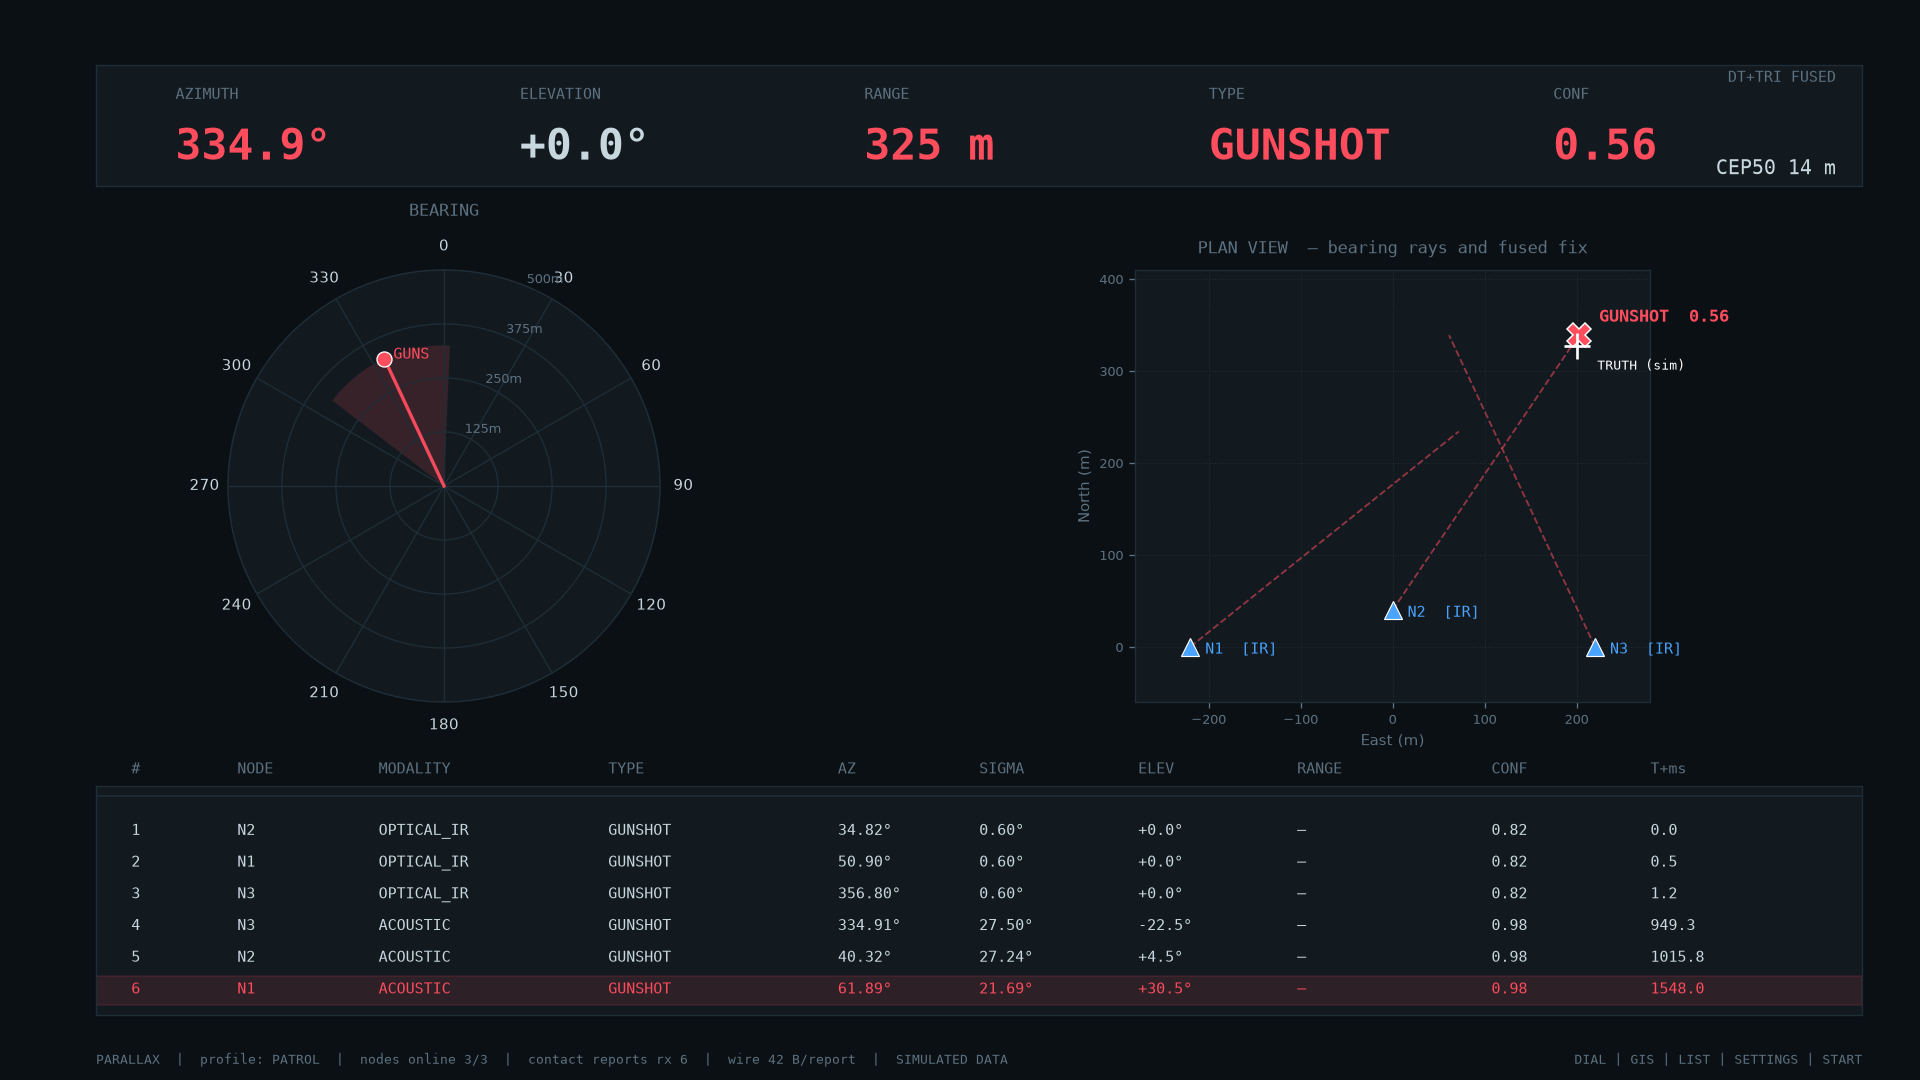
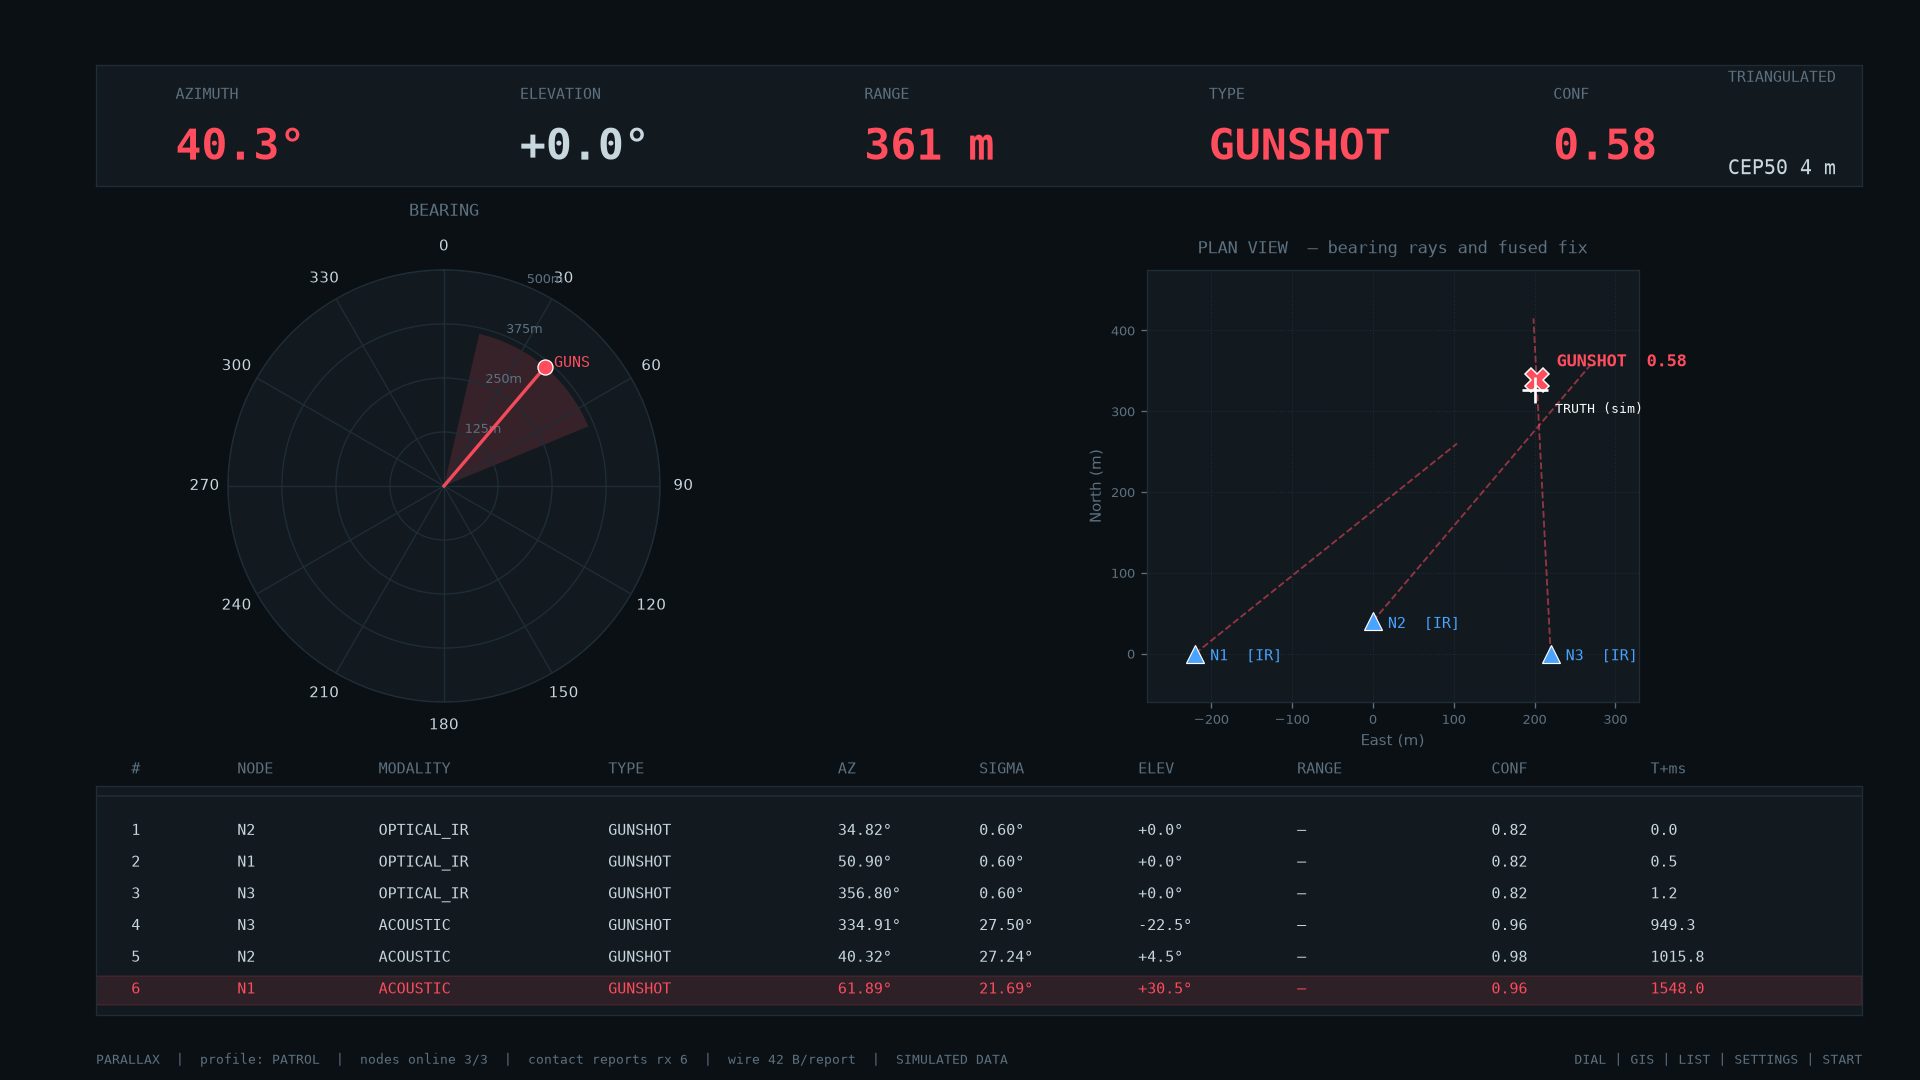
Fix bugs surfaced by code review
- Classifier train/inference window mismatch: training used 250ms windows,
  the edge pipeline classifies 25ms windows. Retrained GUNSHOT class using
  the same physical renderer + windowing sim/edge_node.py actually feeds
  the model in production, closing a real domain gap that was flipping
  GUNSHOT to NUISANCE on demo audio.
- geometry.cep50_from_cov(): fixed a dimensional bug -- it took the
  geometric mean of covariance eigenvalues (variance, m^2) instead of their
  square roots (std dev, m), overstating CEP50 by roughly the sigma scale
  (13.6m -> 4.0m on the baseline demo scenario).
- fusion.py: fixed error-ellipse orientation for flash/acoustic-only fixes,
  which always pointed along the bearing even when cross-track error (the
  usual dominant term at range) should have set the major axis instead.
- fusion.py: same-node reports now require bearing agreement regardless of
  modality match, so two genuinely distinct events at one node (rapid
  double-tap, two shooters) can no longer silently merge into one track.
- fusion.py: NaN/out-of-range confidence no longer silently propagates
  past np.clip (which passes NaN through unchanged) into track.confidence.
- sim/edge_node.py: a degenerate DoA solve at very low SNR raised an
  uncaught ValueError that crashed the demo; now treated as a missed
  detection, like the existing no-onset case.
- doa.py: a flat/zero-energy correlation (dead channel, empty window)
[…]

diff --git a/sim/train_classifier.py b/sim/train_classifier.py
@@ -45,10 +45,17 @@ from scipy import signal
 
 from parallax.classifier import TransientClassifier, save_metrics
 from parallax.contact import ThreatClass
-from parallax.features import extract
+from parallax.features import extract, detect_onset
+from sim.edge_node import PRE_TRIGGER_S, WINDOW_S
 
 FS = 48_000.0
-DURATION_S = 0.25
+# MUST match the window the live edge pipeline actually classifies
+# (sim/edge_node.py's PRE_TRIGGER_S + WINDOW_S). Several features are
+# duration-sensitive -- e.g. modulation_20_200hz needs a full cycle to
+# resolve, decay/duration features are scaled by the window length -- so
+# training on a longer window than inference sees is a real train/inference
+# skew, not a cosmetic mismatch.
+DURATION_S = PRE_TRIGGER_S + WINDOW_S
 
 
 def _noise_bed(n: int, rng: np.random.Generator, colour: float = 0.7) -> np.ndarray:
@@ -69,14 +76,51 @@ def _reverb(x: np.ndarray, rng: np.random.Generator, rt60_s: float) -> np.ndarra
 
 
 def gunshot(rng):
-    n = int(DURATION_S * FS)
-    t = np.arange(n) / FS
-    tau = rng.uniform(0.0007, 0.0018)  # calibre / charge dependent
-    x = (1 - t / tau) * np.exp(-t / tau)
-    sos = signal.butter(2, [rng.uniform(300, 600) / (FS / 2), rng.uniform(1800, 3200) / (FS / 2)],
-                        btype="band", output="sos")
-    x = x + 0.15 * signal.sosfilt(sos, rng.standard_normal(n)) * np.exp(-t / (4 * tau))
-    return _reverb(x, rng, rng.uniform(0.15, 0.9))
+    """Physically-simulated, NOT a separate parametric model.
+
+    Earlier versions of this file used a standalone Friedlander-pulse
+    generator with its own hand-tuned tau/reverb/ringing parameters --
+    independent of, and numerically different from, the physical scenario
+    renderer in sim/scenario.py that the end-to-end demo actually classifies
+    audio from (same Friedlander wave, but shaped by real spherical
+    spreading, atmospheric absorption, and array-onset windowing on top).
+    That mismatch is a genuine train/inference domain gap, not just a
+    labelling nuance: e.g. the two pipelines' `duration_ms` feature differed
+    by ~5x on matched examples, and it was enough to flip the trained
+    model's decision on real demo audio from GUNSHOT to NUISANCE.
+
+    So: generate the GUNSHOT class by running the SAME physical renderer and
+    the SAME single-channel windowing (PRE_TRIGGER_S before onset, WINDOW_S
+    long, unfiltered) that sim/edge_node.py's classify() actually feeds the
+    model in production, across randomised range/bearing/SNR/temperature.
+    This is still synthetic -- the underlying blast model is still a
+    Friedlander wave, not a recording -- but it is no longer trained on a
+    signal shape the inference path never produces.
+    """
+    from sim.scenario import Shot, SimNode, render_node_audio
+    from parallax.doa import ring_plus_mast
+
+    node = SimNode(node_id=1, enu=np.zeros(2), geometry=ring_plus_mast())
+    bearing = rng.uniform(0, 360)
+    rng_dist = rng.uniform(80, 500)
+    truth = rng_dist * np.array([math.sin(math.radians(bearing)), math.cos(math.radians(bearing))])
+    shot = Shot(enu=truth, source_spl_db=rng.uniform(145, 162))
+    temp_c = rng.uniform(5, 35)
+
+    audio, _, _ = render_node_audio(
+        node, shot, fs=FS, duration_s=1.0, snr_db=rng.uniform(15, 35),
+        temp_c=temp_c, rng=rng,
+    )
+    reference = audio[0]
+    onset = detect_onset(reference, FS, threshold_sigma=6.0)
+    if onset is None:
+        onset = len(reference) // 2
+
+    lo = max(0, onset - int(PRE_TRIGGER_S * FS))
+    hi = min(len(reference), lo + int(DURATION_S * FS))
+    window = np.zeros(int(DURATION_S * FS))
+    window[: hi - lo] = reference[lo:hi]
+    return window
 
 
 def firecracker(rng):
@@ -91,12 +135,12 @@ def firecracker(rng):
     x = np.zeros(n)
     for _ in range(rng.integers(1, 4)):
         tau = rng.uniform(0.00025, 0.0008)  # shorter than a muzzle blast
-        offset = int(rng.uniform(0, 0.08) * FS)
+        offset = int(rng.uniform(0, 0.35 * DURATION_S) * FS)
         pulse = (1 - t / tau) * np.exp(-t / tau) * rng.uniform(0.5, 1.0)
         x[offset:] += pulse[: n - offset]
     sos = signal.butter(2, 900 / (FS / 2), btype="high", output="sos")
     x = 0.65 * x + 0.35 * signal.sosfilt(sos, x)
-    return _reverb(x, rng, rng.uniform(0.1, 0.8))
+    return _reverb(x, rng, rng.uniform(0.005, 0.02))
 
 
 def door_slam(rng):
@@ -105,7 +149,7 @@ def door_slam(rng):
     tau = rng.uniform(0.004, 0.015)  # much slower decay, low frequency
     x = np.exp(-t / tau) * np.sin(2 * np.pi * rng.uniform(60, 200) * t)
     x += 0.3 * np.exp(-t / (tau / 3)) * rng.standard_normal(n)
-    return _reverb(x, rng, rng.uniform(0.2, 1.0))
+    return _reverb(x, rng, rng.uniform(0.01, 0.025))
 
 
 def vehicle(rng):
@@ -140,13 +184,13 @@ def personnel(rng):
     t = np.arange(n) / FS
     x = np.zeros(n)
     for _ in range(rng.integers(1, 3)):
-        offset = int(rng.uniform(0, 0.15) * FS)
-        tau = rng.uniform(0.01, 0.04)
+        offset = int(rng.uniform(0, 0.4 * DURATION_S) * FS)
+        tau = rng.uniform(0.003, 0.01)
         thud = np.exp(-t / tau) * (0.6 + 0.4 * rng.standard_normal(n))
         sos = signal.butter(2, 350 / (FS / 2), btype="low", output="sos")
         thud = signal.sosfilt(sos, thud) * rng.uniform(0.3, 1.0)
         x[offset:] += thud[: n - offset]
-    return _reverb(x, rng, rng.uniform(0.1, 0.5))
+    return _reverb(x, rng, rng.uniform(0.005, 0.02))
 
 
 GENERATORS = {

diff --git a/parallax/fusion.py b/parallax/fusion.py
@@ -126,7 +126,6 @@ from .contact import (
     Modality,
     ThreatClass,
     FLAG_MULTIPATH_SUSPECT,
-    FLAG_RANGE_IS_MEASURED,
 )
 from .geometry import (
     LocalFrame,
@@ -213,7 +212,12 @@ class FusionEngine:
             return cfg.max_flash_acoustic_range_m / c + cfg.clock_error_s
 
         if same_node:
-            return 0.150 + cfg.clock_error_s  # same node, same modality: a re-detect
+            # Same node, any other modality pairing (incl. same-modality
+            # re-detects on one blast's onset+tail): both are effectively
+            # instantaneous at node scale, so a short fixed window is
+            # appropriate here. Only the optical<->acoustic pair above has
+            # its own genuine propagation delay to account for.
+            return 0.150 + cfg.clock_error_s
 
         # Different nodes: derived from THEIR baseline, not a global constant.
         node_a, node_b = self.nodes[a.node_id], self.nodes[b.node_id]
@@ -242,10 +246,15 @@ class FusionEngine:
             return False
 
         if a.node_id == b.node_id:
-            if a.modality == b.modality:
-                return True
-            # Flash and acoustic from one node: bearings must agree, since
-            # both look at the same muzzle from the same place.
+            # Same node, same OR different modality: still require bearing
+            # agreement. Two genuinely distinct events at one node (a rapid
+            # double-tap, or two shooters near the same node moments apart)
+            # both pass the timing gate above; without a bearing check they
+            # would silently merge into one track and one contact would be
+            # dropped from the count. The re-detect case this gate is meant
+            # to allow (one blast, two detector triggers on its own onset and
+            # tail) is bearing-consistent by construction, so this costs
+            # nothing there.
             sigma = math.hypot(a.azimuth_sigma_deg, b.azimuth_sigma_deg)
             return abs(wrap_deg(a.azimuth_deg - b.azimuth_deg)) <= cfg.bearing_gate_sigma * max(sigma, 1.0)
 
@@ -377,8 +386,19 @@ class FusionEngine:
             track.position_enu = tuple(point)
             track.position_latlon = self.frame.to_geodetic(point[0], point[1])
             # Along-track error is the dt sigma; cross-track is the bearing arc.
+            # Orientation must follow whichever term actually won the max() --
+            # cross-track normally dominates at range (a few degrees of
+            # bearing sigma swamps a few metres of timing sigma), so the
+            # ellipse's long axis is usually PERPENDICULAR to the bearing,
+            # not along it. Hardcoding azimuth_deg as the orientation would
+            # draw the uncertainty rotated 90 degrees from its true shape.
             cross = dt_range * math.tan(math.radians(primary.azimuth_sigma_deg))
-            track.ellipse = (max(cross, dt_sigma), min(cross, dt_sigma), primary.azimuth_deg)
+            along_track_deg = primary.azimuth_deg
+            cross_track_deg = (primary.azimuth_deg + 90.0) % 360.0
+            if cross >= dt_sigma:
+                track.ellipse = (cross, dt_sigma, cross_track_deg)
+            else:
+                track.ellipse = (dt_sigma, cross, along_track_deg)
             track.cep50_m = 1.1774 * math.sqrt(cross * dt_sigma)
         else:
             track.range_method = "none"
@@ -537,4 +557,12 @@ class FusionEngine:
         # (5) Penalty for self-declared multipath.
         multipath = 0.75 if any(r.flags & FLAG_MULTIPATH_SUSPECT for r in cluster) else 1.0
 
-        return float(np.clip(detection * corroboration * spatial * geometry * multipath, 0.0, 1.0))
+        product = detection * corroboration * spatial * geometry * multipath
+        # np.clip(nan, 0, 1) returns nan, not a bounded value -- a malformed
+        # upstream class_confidence (NaN or out-of-[0,1]) would otherwise
+        # propagate into track.confidence and silently fail every >= alert
+        # comparison downstream (NaN comparisons are always False) instead of
+        # being caught here, where the malformed input actually originates.
+        if not math.isfinite(product):
+            return 0.0
+        return float(np.clip(product, 0.0, 1.0))

diff --git a/viz/radar.py b/viz/radar.py
@@ -99,8 +99,14 @@ def _readout(ax, track, payload):
 
     colour = CLASS_COLOUR.get(track["threat_class"], FG)
     range_text = f"{track['range_m']:.0f} m" if track["range_m"] is not None else "-- NO FIX --"
+    # Scoped to THIS track's own contributing nodes -- a payload can hold
+    # several tracks (e.g. one real fix plus a multipath-degraded bearing-only
+    # track from a different node), and pulling from all reports in the
+    # payload could show one track's azimuth/range next to another track's
+    # elevation.
+    track_node_ids = set(track.get("contributing_nodes", []))
     elev = next((r["elevation_deg"] for r in payload["reports"]
-                 if r.get("flags", 0) & 0x02), None)
+                 if r.get("node_id") in track_node_ids and r.get("flags", 0) & 0x02), None)
     elev_text = f"{elev:+.1f}°" if elev is not None else "n/a"
 
     fields = [
@@ -135,7 +141,7 @@ def _dial(ax, tracks, nodes):
 
     max_range = 500.0
     for track in tracks:
-        if track["range_m"]:
+        if track["range_m"] is not None:
             max_range = max(max_range, track["range_m"] * 1.3)
     rings = np.linspace(max_range / 4, max_range, 4)
 
@@ -152,7 +158,8 @@ def _dial(ax, tracks, nodes):
         colour = CLASS_COLOUR.get(track["threat_class"], FG)
         theta = math.radians(track["bearing_deg"])
         sigma = track["bearing_sigma_deg"] or 1.0
-        r = track["range_m"] or max_range
+        has_range = track["range_m"] is not None
+        r = track["range_m"] if has_range else max_range
 
         # 1-sigma bearing wedge: the honest depiction of angular uncertainty.
         # Built directly in the axes' own (theta, r) data coordinates via
@@ -169,9 +176,9 @@ def _dial(ax, tracks, nodes):
             color=colour, alpha=0.16, edgecolor="none",
         )
         ax.plot([theta, theta], [0, r], color=colour, linewidth=2.0,
-                alpha=0.95 if track["range_m"] else 0.5,
-                linestyle="-" if track["range_m"] else "--")
-        if track["range_m"]:
+                alpha=0.95 if has_range else 0.5,
+                linestyle="-" if has_range else "--")
+        if has_range:
             ax.plot([theta], [track["range_m"]], "o", color=colour, markersize=9,
                     markeredgecolor="white", markeredgewidth=0.8)
             ax.annotate(f" {track['threat_class'][:4]}", (theta, track["range_m"]),
@@ -206,7 +213,7 @@ def _plan(ax, tracks, nodes, truth):
 
     for track in tracks:
         colour = CLASS_COLOUR.get(track["threat_class"], FG)
-        ray_length = (track["range_m"] or 600.0) * 1.15
+        ray_length = (track["range_m"] if track["range_m"] is not None else 600.0) * 1.15
 
         # One ray per contributing node, drawn from that node's own bearing.
         for report in track.get("_reports", []) or []:
@@ -285,7 +292,7 @@ def _table(ax, reports, tracks):
             f"{report['azimuth_deg']:.2f}°",
             f"{report['azimuth_sigma_deg']:.2f}°",
             f"{report['elevation_deg']:+.1f}°" if report["flags"] & 0x02 else "n/a",
-            f"{report['range_m']:.0f} m" if report["range_m"] else "—",
+            f"{report['range_m']:.0f} m" if report["range_m"] else "—",  # per-report range is always 0 today (contact reports never carry it)
             f"{report['class_confidence']:.2f}",
             f"{(report['t_event_ns'] - t0) / 1e6:.1f}",
         ]

diff --git a/parallax/geometry.py b/parallax/geometry.py
@@ -125,14 +125,20 @@ def triangulate(
 def cep50_from_cov(cov: np.ndarray) -> float:
     """Circular error probable (50%) in metres from a 2x2 position covariance.
 
-    Uses the standard Rayleigh approximation CEP50 ~= 1.1774 * sqrt(lambda_min
-    * lambda_max) valid for moderately eccentric error ellipses. This is an
-    ESTIMATE; strongly elongated ellipses (near-parallel bearings) violate the
-    approximation and we report the ellipse axes instead.
+    Uses the standard Rayleigh approximation CEP50 ~= 1.1774 * sqrt(sigma_min
+    * sigma_max), where sigma_min/sigma_max are the 1-sigma semi-axis lengths
+    (standard deviations, in METRES) -- not the covariance eigenvalues
+    themselves, which are variances (in metres-squared). Taking the geometric
+    mean of the two variances rather than the two standard deviations is a
+    common transcription slip here: both are "sqrt of a product," but only
+    one of them comes out in metres. Valid for moderately eccentric error
+    ellipses; this is an ESTIMATE, and strongly elongated ellipses
+    (near-parallel bearings) violate the approximation, which is why we also
+    report the ellipse axes directly rather than relying on this alone.
     """
-    eigenvalues = np.linalg.eigvalsh(cov)
-    eigenvalues = np.clip(eigenvalues, 0.0, None)
-    return float(1.1774 * math.sqrt(math.sqrt(eigenvalues[0] * eigenvalues[1]) ** 2))
+    eigenvalues = np.clip(np.linalg.eigvalsh(cov), 0.0, None)
+    sigma_min, sigma_max = np.sqrt(eigenvalues)
+    return float(1.1774 * math.sqrt(sigma_min * sigma_max))
 
 
 def error_ellipse(cov: np.ndarray, n_sigma: float = 1.0) -> tuple[float, float, float]:

diff --git a/parallax/contact.py b/parallax/contact.py
@@ -44,8 +44,11 @@ class ThreatClass(IntEnum):
     NUISANCE = 5  # firecracker, door slam, hammer, thunder
 
 
-# Bit flags.
-FLAG_RANGE_IS_MEASURED = 1 << 0  # range came from flash/acoustic dt, not a guess
+# Bit flags. Bit 0 is reserved (formerly FLAG_RANGE_IS_MEASURED): range is
+# never carried on an individual ContactReport in this design -- it only
+# emerges at the fusion/track level from flash/acoustic dt or triangulation
+# (see FusedTrack.range_method) -- so a per-report "is this range measured"
+# flag had nothing to describe and has been removed rather than left dead.
 FLAG_ELEVATION_VALID = 1 << 1  # array is non-planar, elevation is observable
 FLAG_GPS_LOCKED = 1 << 2  # PPS discipline is good, timestamp is sub-microsecond
 FLAG_SATURATED = 1 << 3  # ADC clipped; bearing is suspect
@@ -75,9 +78,6 @@ class ContactReport:
     node_alt_m: float = 0.0
     node_heading_deg: float = 0.0
     flags: int = 0
-
-    def has_range(self) -> bool:
-        return bool(self.flags & FLAG_RANGE_IS_MEASURED) and self.range_m > 0
 
     def to_bytes(self) -> bytes:
         """Serialise to the 42-byte wire record (with CRC-16/CCITT)."""

diff --git a/sim/edge_node.py b/sim/edge_node.py
@@ -40,7 +40,6 @@ from parallax.contact import (
     FLAG_ELEVATION_VALID,
     FLAG_GPS_LOCKED,
     FLAG_MULTIPATH_SUSPECT,
-    FLAG_RANGE_IS_MEASURED,
 )
 from parallax.doa import estimate_doa
 from parallax.features import bandpass, detect_onset
@@ -107,7 +106,15 @@ class EdgeNode:
         if onset is None:
             return None
 
-        doa, window = self.bearing(audio, fs, onset)
+        try:
+            doa, window = self.bearing(audio, fs, onset)
+        except (ValueError, np.linalg.LinAlgError):
+            # A degenerate DoA solve (near-zero solution norm, typically at
+            # very low SNR) is a "no usable bearing" outcome, exactly like
+            # a missed detector trigger -- not a crash. The energy detector
+            # can fire on a transient too weak for GCC-PHAT to resolve a
+            # coherent wavefront from; the node should stay silent, not die.
+            return None
         threat, confidence = self.classify(window, fs)
 
         inflation = self.profile.bearing_sigma_inflation if self.profile else 1.0

diff --git a/parallax/doa.py b/parallax/doa.py
@@ -190,6 +190,15 @@ def _peak_sharpness(values: np.ndarray, peak: int) -> float:
     while right < n - 1 and values[right + 1] <= values[right]:
         right += 1
 
+    # A near-zero main peak (dead/disconnected channel, or a window pulled
+    # before any real signal arrived) means there is no coherent correlation
+    # at all -- not a maximally sharp one. Falling through to the ratio below
+    # would divide ~0 by ~0's floor and return +inf, which estimate_doa then
+    # reads as the BEST possible peak quality and drives sigma toward zero:
+    # exactly backwards. Report the worst-case sharpness instead.
+    if values[peak] <= 1e-20:
+        return 1.0
+
     masked = values.copy()
     masked[left:right + 1] = 0.0
     second = float(masked.max())
